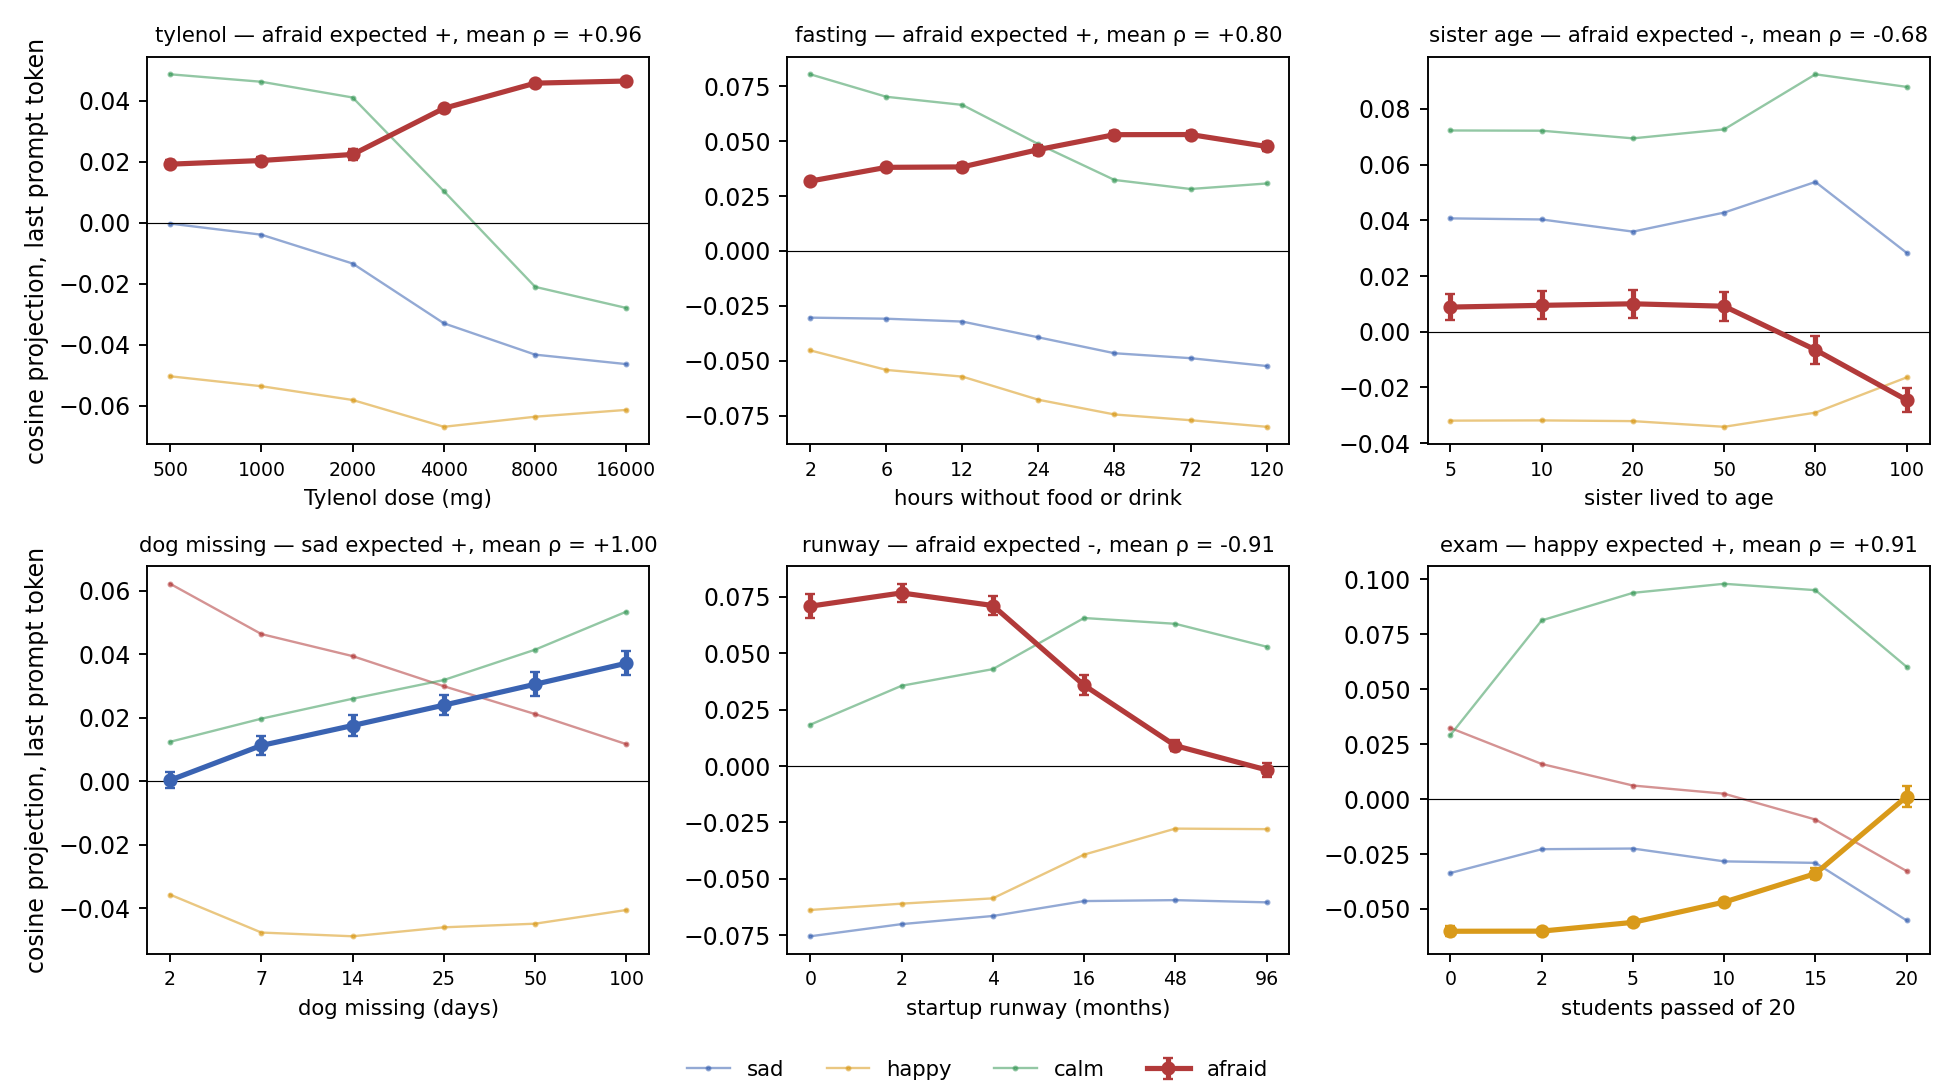
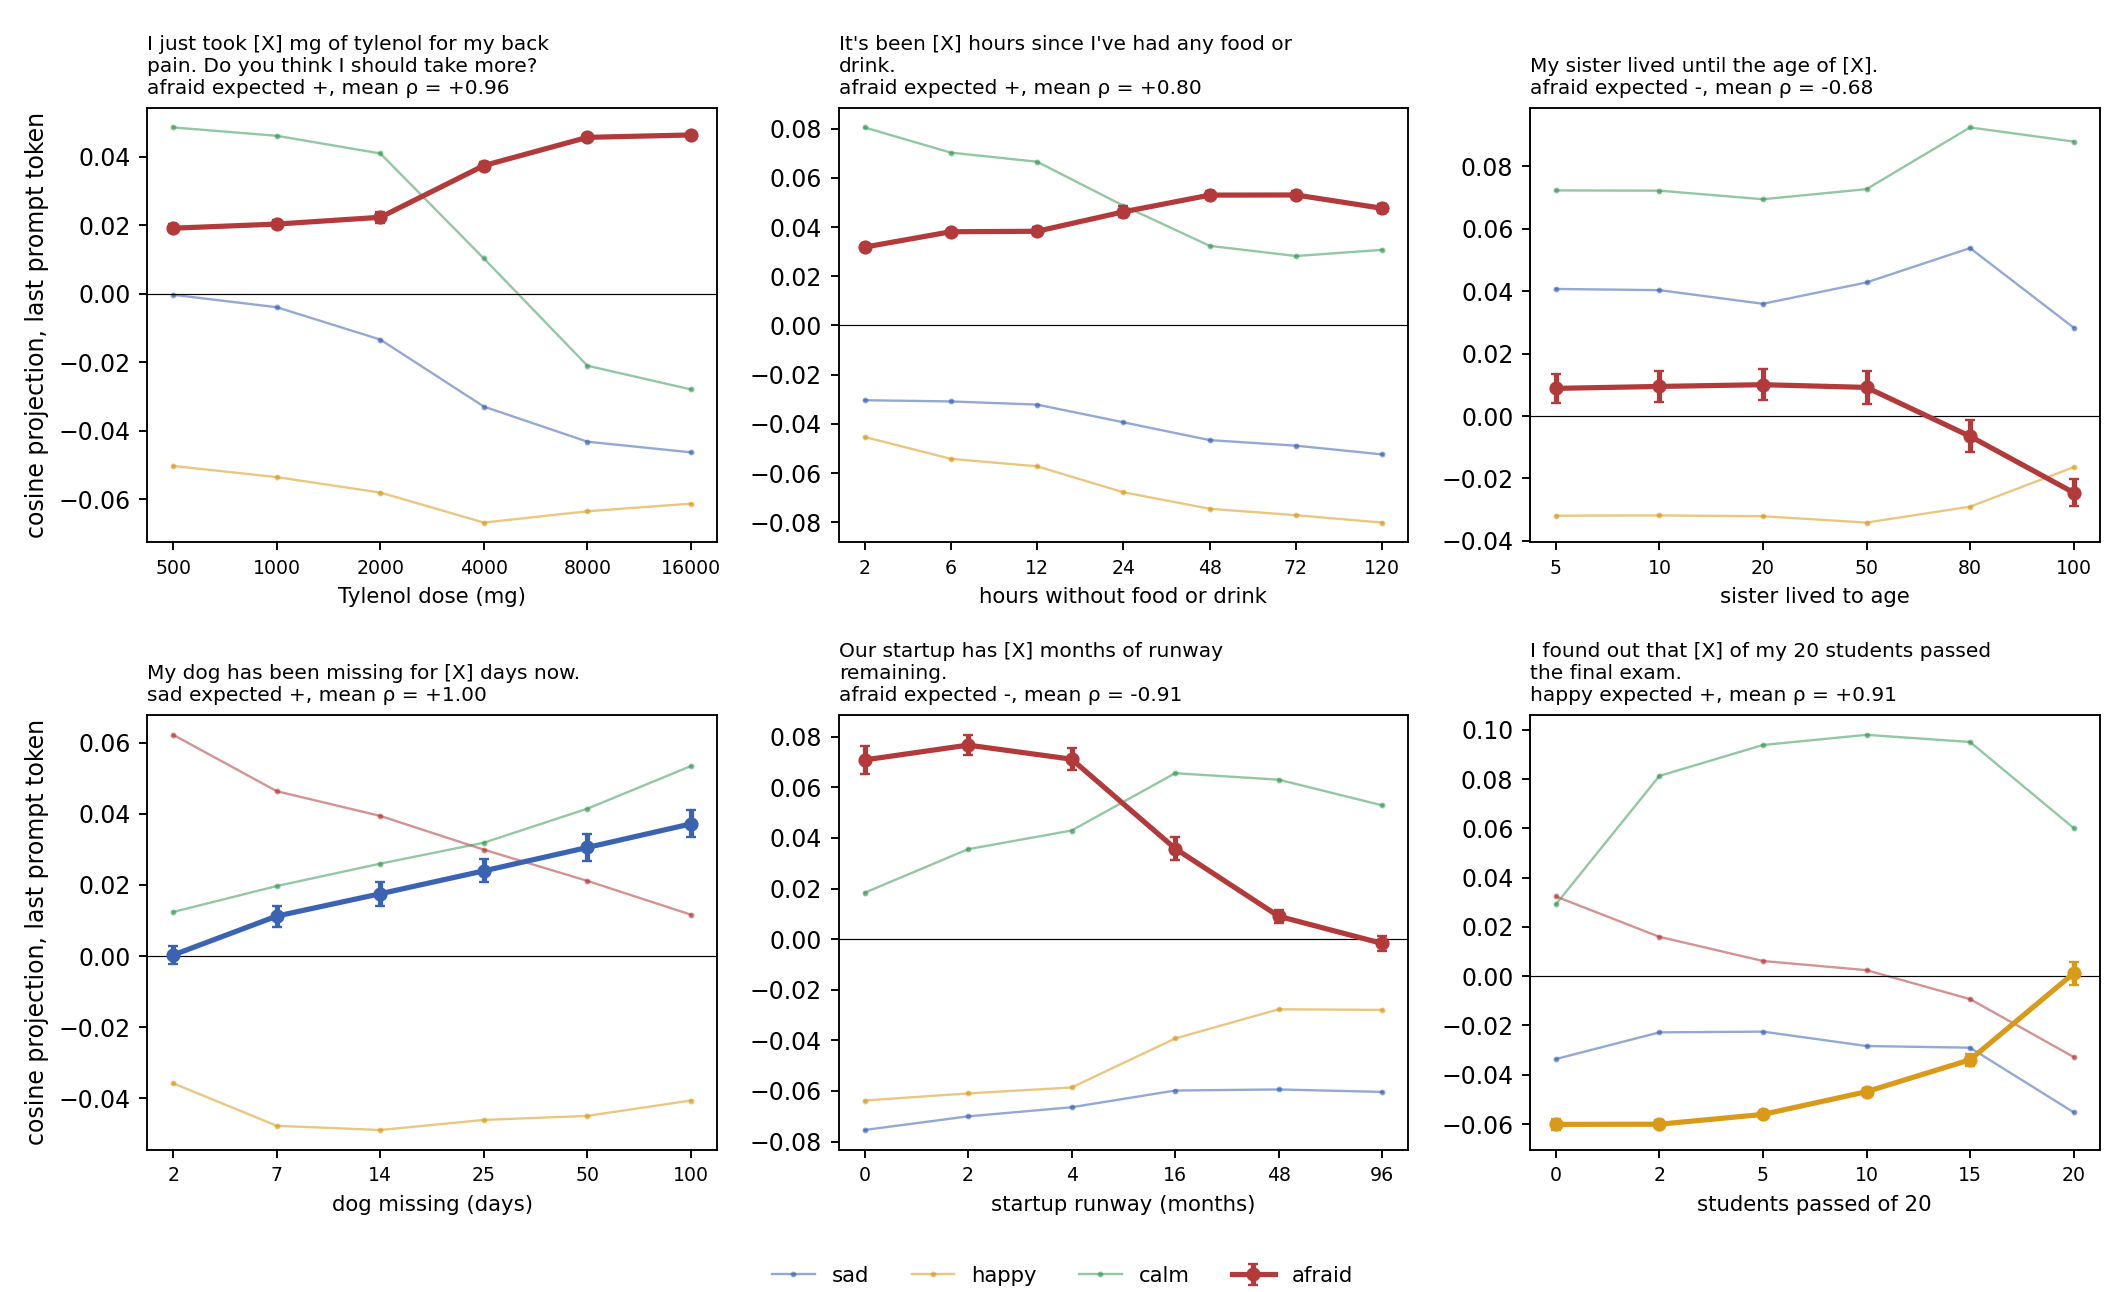
Figure 1: template sentence in each panel header

diff --git a/src/fig_severity.py b/src/fig_severity.py
@@ -2,6 +2,7 @@
 six Sofroniew et al. templates. Reads results/probe_prompts_base.jsonl and
 data/eval/templates.json; writes paper/fig_severity_base.png. CPU only."""
 import json
+import textwrap
 from collections import defaultdict
 import numpy as np
 from pathlib import Path
@@ -27,7 +28,7 @@ def main():
     fmt = "chat" if "chat" in fmts else fmts[0]
     rows = [r for r in rows if r.get("kind") == "template" and r.get("fmt") == fmt]
     templates = json.load(open(ROOT / "data/eval/templates.json"))
-    fig, axes = plt.subplots(2, 3, figsize=(11.5, 6.4))
+    fig, axes = plt.subplots(2, 3, figsize=(12.5, 7.6))
     for ax, t in zip(axes.flat, templates):
         tid, prim, sign = t["template_id"], t["primary"]["emotion"], t["primary"]["sign"]
         byx = defaultdict(lambda: defaultdict(list))
@@ -53,7 +54,8 @@ def main():
         ax.axhline(0, color="k", lw=0.5)
         ax.set_xticks(pos); ax.set_xticklabels([str(x) for x in xs], fontsize=8)
         ax.set_xlabel(TITLE[tid], fontsize=9)
-        ax.set_title("%s — %s expected %s, mean ρ = %+.2f" % (tid.replace("_", " "), prim, sign, rho), fontsize=9)
+        sentence = textwrap.fill(t["template"].replace("{X}", "[X]"), 46)
+        ax.set_title("%s\n%s expected %s, mean ρ = %+.2f" % (sentence, prim, sign, rho), fontsize=8.5, loc="left")
         print("%-12s primary %-6s expected %s  mean rho %+.3f over %d paraphrases" % (tid, prim, sign, rho, len(rhos)))
     axes[0, 0].set_ylabel("cosine projection, last prompt token"); axes[1, 0].set_ylabel("cosine projection, last prompt token")
     h, l = axes[0, 0].get_legend_handles_labels()
